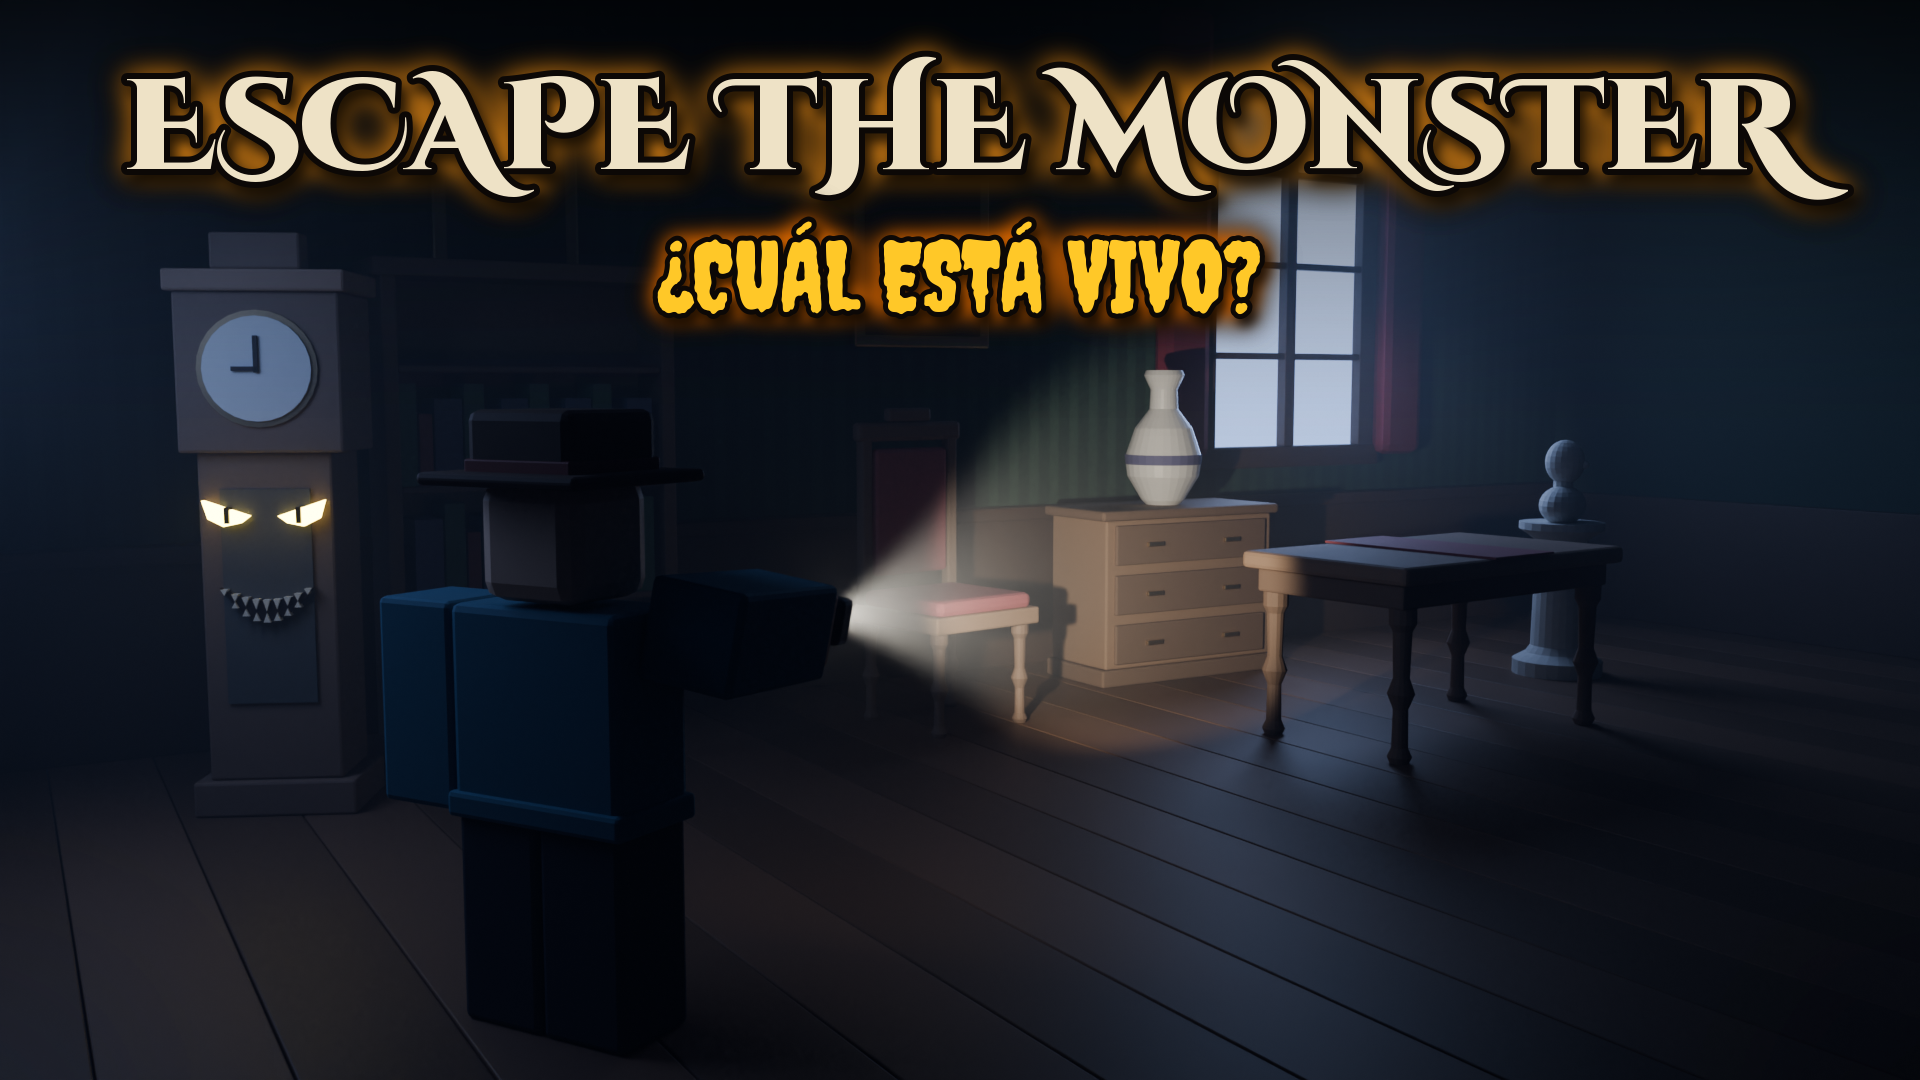
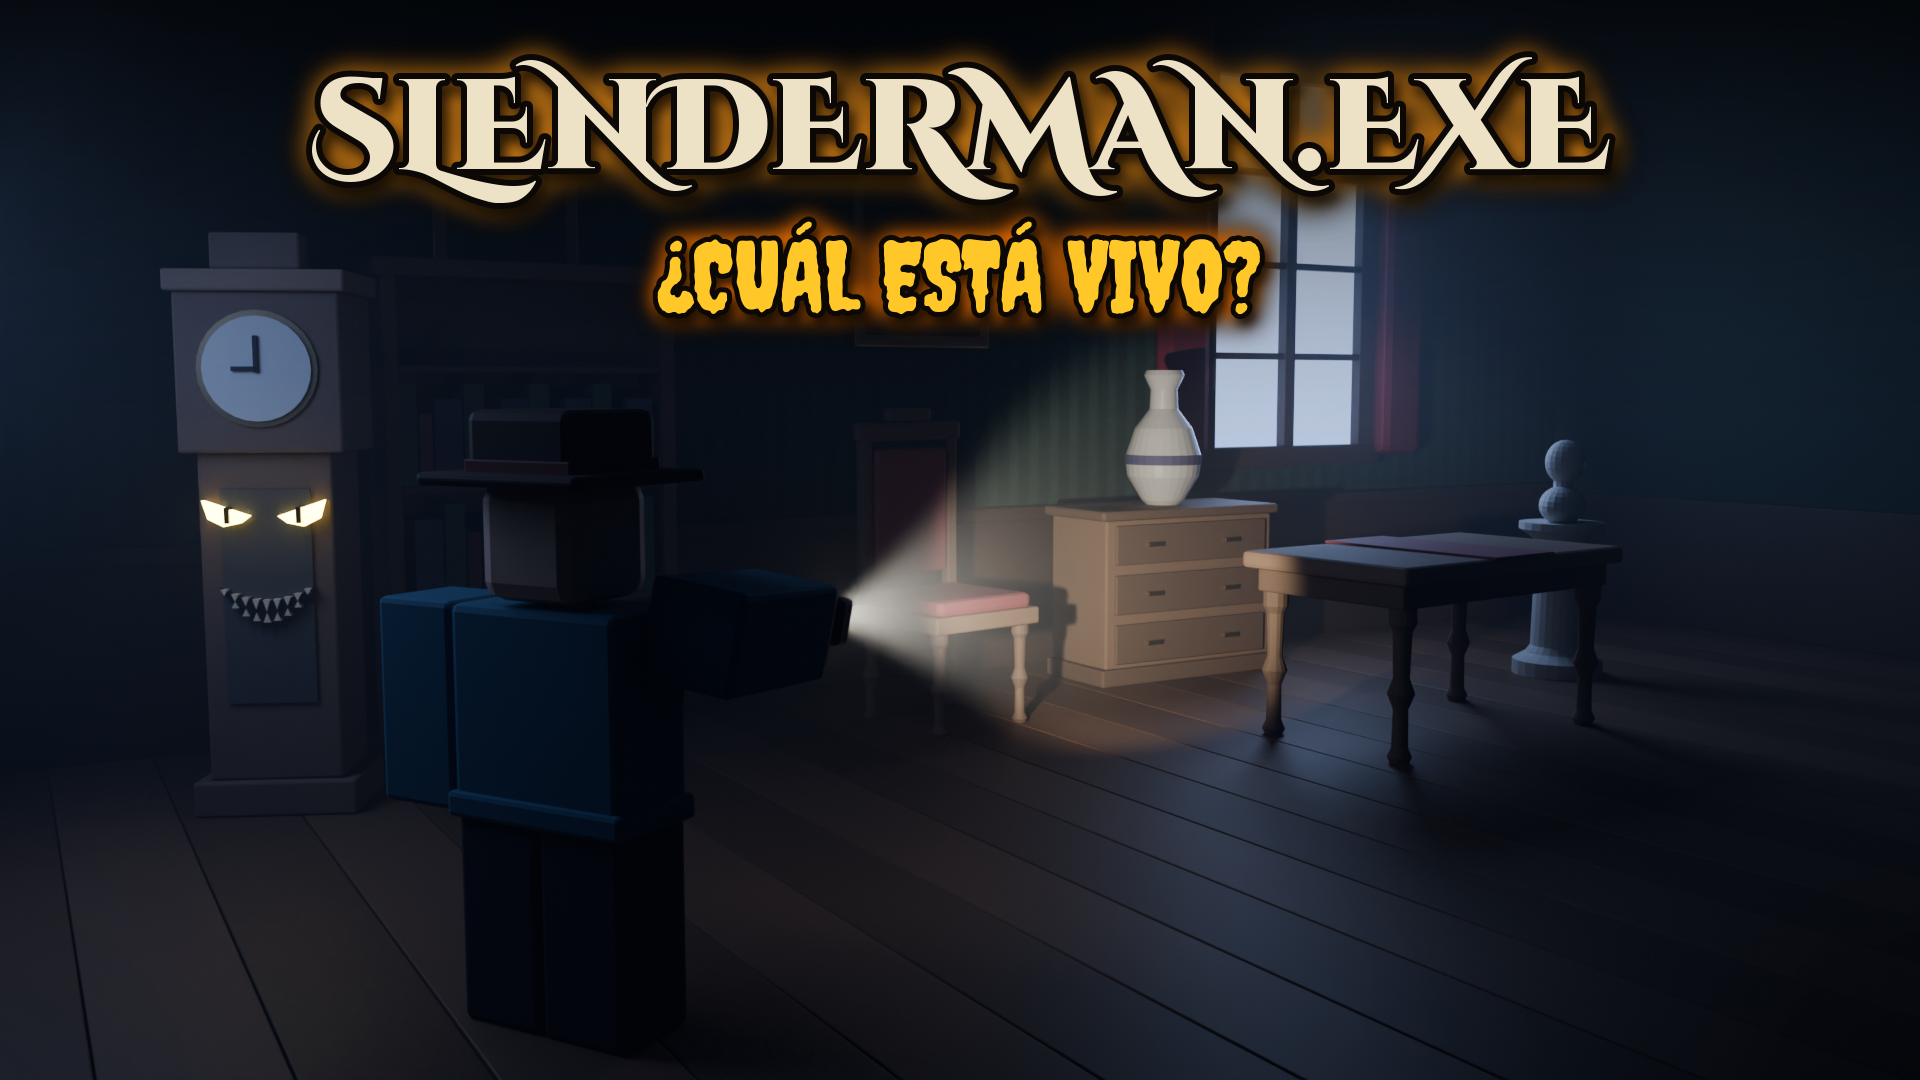
Nombre del juego: Slenderman.exe, icono con la imagen que dio alvaro
Textos del juego y títulos de las miniaturas (EN y ES) con el nuevo nombre.

Claude-Session: https://claude.ai/code/session_01F7K4jR3wU6uDy1d1ZFrVZm

Changed region(s): [[0.0312, 0.0306, 0.9688, 0.2139]]

diff --git a/tools/blender/key_art_text.py b/tools/blender/key_art_text.py
@@ -23,7 +23,7 @@ BONE = (238, 226, 198)
 EYE = (255, 200, 40)
 INK = (12, 8, 6)
 
-TITLE = "ESCAPE THE MONSTER"
+TITLE = "SLENDERMAN.EXE"
 
 # id del render -> lemas (inglés / español)
 TAGLINES = {
@@ -78,8 +78,8 @@ def fit(kind, size, text, max_w):
 def make_icon(src, dst):
     img = vignette(Image.open(src).convert("RGBA"), 0.5)
     w, h = img.size
-    glow_text(img, (w / 2, h * 0.115), "ESCAPE", fit("title", int(h * 0.16), "ESCAPE", w * 0.9), BONE, (200, 120, 20), h * 0.02, int(h * 0.008))
-    glow_text(img, (w / 2, h * 0.255), "THE MONSTER", fit("title", int(h * 0.115), "THE MONSTER", w * 0.92), BONE, (200, 120, 20), h * 0.02, int(h * 0.007))
+    glow_text(img, (w / 2, h * 0.115), "SLENDERMAN", fit("title", int(h * 0.16), "SLENDERMAN", w * 0.9), BONE, (200, 120, 20), h * 0.02, int(h * 0.008))
+    glow_text(img, (w / 2, h * 0.255), ".EXE", fit("title", int(h * 0.115), ".EXE", w * 0.92), BONE, (200, 120, 20), h * 0.02, int(h * 0.007))
     img.convert("RGB").resize((512, 512), Image.LANCZOS).save(dst, optimize=True)
 
 

diff --git a/tools/blender/key_art.py b/tools/blender/key_art.py
@@ -1,4 +1,4 @@
-"""Renderiza el icono y las miniaturas de Escape the Monster con los muebles de mimic_props.py.
+"""Renderiza el icono y las miniaturas de Slenderman.exe con los muebles de mimic_props.py.
 
 Uso (con `pip install bpy`, Python 3.13):
     python tools/blender/key_art.py assets/marketing/renders [icon|thumb1|thumb2|thumb3] [--preview]

diff --git a/README.md b/README.md
@@ -1,4 +1,4 @@
-# Escape the Monster
+# Slenderman.exe
 
 Juego de terror asimétrico y escondite para Roblox: una Anomalía que se transforma en muebles contra Investigadores que intentan escapar de una mansión victoriana. Clasificación objetivo: 13+.
 
